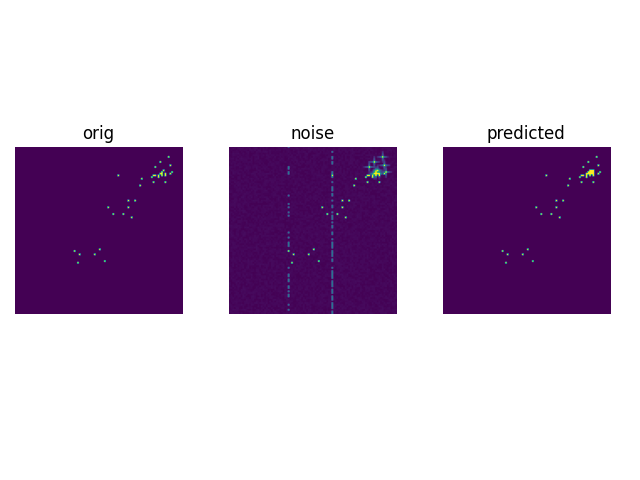
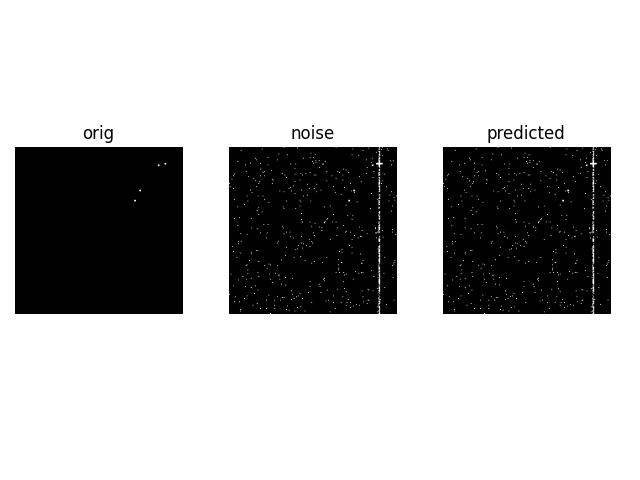
upsacaled inputs

Changed region(s): [[0.0, 0.2812, 0.3125, 0.6562], [0.6875, 0.2812, 0.9688, 0.6562], [0.3438, 0.2812, 0.625, 0.6562]]

diff --git a/dataloader.py b/dataloader.py
@@ -1,11 +1,12 @@
 import os,sys
+import cv2
 import torch, copy
 from torch.utils.data import Dataset, DataLoader
 import pandas as pd
 import numpy as np
 import random
 import matplotlib.pyplot as plt
-from tessellate import triangle_tessellate , expand
+from data_preprocess import triangle_tessellate , expand
 
 
 # imgs = []
@@ -38,13 +39,17 @@ class HSQC_Dataset(Dataset):
 
     def __getitem__(self, idx):
         raw_sample = self.all_data[idx]
-        if self.config:
+        upscale_factor = self.config['dataset'].get('signal_upscale')
+        if upscale_factor!=None:
+            raw_sample = cv2.resize(np.array(raw_sample,dtype='uint8'), (raw_sample.shape[1]*2,raw_sample.shape[0]*2), interpolation = cv2.INTER_AREA) 
+            raw_sample = raw_sample.astype('int64')
+        if self.config['dataset'].get('noise_factor') != None:
             if self.config["dataset"]["noise_factor"] == "random":
                 noise_factor = random.uniform(0.2,0.6)
             else:
                 noise_factor = self.config["dataset"]["noise_factor"]
         else :
-            noise_factor = 0.3
+            noise_factor = 1
 
 
         # add noise based on provided noise type
@@ -56,8 +61,10 @@ class HSQC_Dataset(Dataset):
             noisy_sample = raw_sample + noise_factor * np.random.uniform(low=0.0, high=1.5, size=raw_sample.shape)
         elif self.config["dataset"]["noise_type"] == "t1": 
             noisy_sample = add_t1_noise(raw_sample, self.config)
-            noisy_sample += self.config["dataset"]["white_noise_factor"] * np.random.uniform(low=0.0, high=1.5, size=raw_sample.shape)
-       
+            white_noise_rate=self.config['dataset']['white_noise_rate']
+            noisy_sample += self.config["dataset"]["white_noise_factor"] * np.random.binomial(1, white_noise_rate,  size=raw_sample.shape)
+
+
         else:
             raise Exception("unkown type of noise {}".format(self.config["dataset"]["noise_type"]))
        
@@ -130,50 +137,57 @@ def filtering(x):
 def add_t1_noise(img, config):
     height = img.shape[0]
     streak_p = config['dataset'].get('streak_prob')  # probability of generating streak noise
-    noise_factor = config['dataset']['noise_factor']
+    # if config['dataset'].get('noise_factor') != None:
+    #     if config["dataset"]["noise_factor"] == "random":
+    #         noise_factor = random.uniform(0.2,0.6)
+    #     else:
+    #         noise_factor = config["dataset"]["noise_factor"]
+    # else :
+    #     noise_factor = 1
     
-    noisy_img = np.apply_along_axis(add_noise_to_column, 0, img.astype(float), height, streak_p, noise_factor)
-    
-    if config['dataset'].get("cross_prob") != None:
-        cross_noise = generate_cross_noise(img, config)
-        noisy_img += cross_noise
+    noisy_img = copy.deepcopy(img)
+    cross_noise, cross_points = generate_cross_noise(img, config)
+    noisy_columns = cross_points[1]
+    for col in noisy_columns:
+        if np.random.binomial(1, streak_p):
+            noise_rate = np.random.binomial(height, np.random.uniform(low=0.1, high=0.7))/ height
+            noise =  np.random.binomial(1, noise_rate, height)
+            noisy_img[:,col] += noise
+            
+    noisy_img = noisy_img + cross_noise
+        
     return noisy_img
         
 
-def add_noise_to_column(col, height, streak_p, noise_factor):
-    for _ in range(int(np.sum(col))):
-        if np.random.binomial(1, streak_p):
-            noise_rate = np.random.binomial(height, np.random.uniform(low=0.1, high=0.7))/ height
-            noise =  np.random.binomial(1, noise_rate, height) * (random.uniform(0.2,0.6)  if noise_factor=="random" else noise_factor)
-            col = col+noise
+# def add_noise_to_column(col, cross_points, height, streak_p, noise_factor):
+#     for _ in range(int(np.sum(col))):
+#         if np.random.binomial(1, streak_p):
+#             noise_rate = np.random.binomial(height, np.random.uniform(low=0.1, high=0.7))/ height
+#             noise =  np.random.binomial(1, noise_rate, height) * (random.uniform(0.2,0.6)  if noise_factor=="random" else noise_factor)
+#             col = col+noise
         
-    return col
+#     return col
 
 def generate_cross_noise(img, config):
     noise_probability = config['dataset']['cross_prob']
-    output_noise = noise_layer = np.zeros(img.shape)
+    output_noise = np.zeros(img.shape)
     points =  np.array(np.where(img==1))
     points = points[:, 0:int(len(points[0])*noise_probability)]
     if len(points) == 0: 
         return output_noise
-    for noise_rate, index_shift  in [(0.1,-3), 
-                                     (0.2,-2), 
-                                     (0.3,-1),
-                                     (0.3,1),
-                                     (0.2,2),
-                                     (0.1,3)]:
+    for index_shift  in [-3,-2,-1,1,2,3]:
         points_copy1 = copy.deepcopy(points)
         points_copy1[1] += index_shift
         points_copy1[1] = np.clip(points_copy1[1], 0, img.shape[1]-1)
         noise_layer1 = np.zeros(img.shape)
-        noise_layer1[tuple(points_copy1)] = noise_rate
+        noise_layer1[tuple(points_copy1)] = 1
         output_noise += noise_layer1
         
         points_copy2 = copy.deepcopy(points)
         points_copy2[0] += index_shift
         points_copy2[0] = np.clip(points_copy2[0], 0, img.shape[1]-1)
         noise_layer2 = np.zeros(img.shape)
-        noise_layer2[tuple(points_copy2)] = noise_rate
+        noise_layer2[tuple(points_copy2)] = 1
         output_noise += noise_layer2
         
-    return output_noise
+    return output_noise, points

diff --git a/experiment.py b/experiment.py
@@ -215,19 +215,19 @@ class Experiment(object):
                     plt.tight_layout()
                     ax.set_title('orig')
                     ax.axis('off')
-                    plt.imshow(raw_pic[0].cpu())
+                    plt.imshow(raw_pic[0].cpu(),cmap='gray')
 
                     ax = plt.subplot(1, 3, 2)
                     plt.tight_layout()
                     ax.set_title('noise')
                     ax.axis('off')
-                    plt.imshow(noise_pic[0].cpu())
+                    plt.imshow(noise_pic[0].cpu(),cmap='gray')
 
                     ax = plt.subplot(1, 3, 3)
                     plt.tight_layout()
                     ax.set_title('predicted')
                     ax.axis('off')
-                    plt.imshow(prediction_pic[0].cpu())
+                    plt.imshow(prediction_pic[0].cpu(),cmap='gray')
 
                     plt.savefig(os.path.join(self.__experiment_dir, "epoch_{}_sample_images.png".format(str(self    .__current_epoch))))
                     displayed = True
@@ -275,19 +275,19 @@ class Experiment(object):
                     plt.tight_layout()
                     ax.set_title('orig')
                     ax.axis('off')
-                    plt.imshow(raw_pic[0])
+                    plt.imshow(raw_pic[0],cmap='gray')
 
                     ax = plt.subplot(1, 3, 2)
                     plt.tight_layout()
                     ax.set_title('noise')
                     ax.axis('off')
-                    plt.imshow(noise_pic[0])
+                    plt.imshow(noise_pic[0],cmap='gray')
 
                     ax = plt.subplot(1, 3, 3)
                     plt.tight_layout()
                     ax.set_title('predicted')
                     ax.axis('off')
-                    plt.imshow(prediction_pic[0])
+                    plt.imshow(prediction_pic[0],cmap='gray')
 
                     plt.savefig(os.path.join(self.__experiment_dir, "sample_images.png"))
                     displayed = True
@@ -333,19 +333,19 @@ class Experiment(object):
                     plt.tight_layout()
                     ax.set_title('orig')
                     ax.axis('off')
-                    plt.imshow(raw_pic[0].cpu())
+                    plt.imshow(raw_pic[0].cpu(),cmap='gray')
 
                     ax = plt.subplot(1, 3, 2)
                     plt.tight_layout()
                     ax.set_title('noise')
                     ax.axis('off')
-                    plt.imshow(noise_pic[0].cpu())
+                    plt.imshow(noise_pic[0].cpu(),cmap='gray')
 
                     ax = plt.subplot(1, 3, 3)
                     plt.tight_layout()
                     ax.set_title('predicted')
                     ax.axis('off')
-                    plt.imshow(prediction_pic[0].cpu())
+                    plt.imshow(prediction_pic[0].cpu(),cmap='gray')
 
                     plt.savefig(os.path.join(self.__experiment_dir, "sample_images.png"))
                     displayed = True

diff --git a/test_accu_algo.py b/test_accu_algo.py
@@ -1,7 +1,7 @@
 # originally used to check the computation of accuracy (IoU)
 # now it is used to demo some raw/noised/pre_filtered image
 import json
-import os
+import os,sys
 from dataloader import get_datasets
 from model_factory import get_model
 from weakref import ref
@@ -12,7 +12,9 @@ from tqdm import tqdm
 from datetime import datetime
 import shutil
 
-name = "t1_noise"
+
+
+name = "smaller_noise"
 f = open('./hyperparameters/'+ name + '.json')
 config = json.load(f)
 train_loader, val_loader, test_loader = get_datasets(config)
@@ -40,22 +42,24 @@ ax = plt.subplot(1, 3, 1)
 plt.tight_layout()
 ax.set_title('orig')
 ax.axis('off')
-plt.imshow(raw[0,0].cpu())
+plt.imshow(raw[0,0].cpu(),cmap='gray')
 
 ax = plt.subplot(1, 3, 2)
 plt.tight_layout()
 ax.set_title('noise')
 ax.axis('off')
-plt.imshow(noise[0,0].cpu())
+plt.imshow(noise[0,0].cpu(),cmap='gray')
 
 ax = plt.subplot(1, 3, 3)
 plt.tight_layout()
 ax.set_title('predicted')
 ax.axis('off')
-plt.imshow(prediction[0,0].cpu())
+plt.imshow(prediction[0,0].cpu(),cmap='gray')
 
 plt.savefig("accu_test_sample.png")
 displayed = True
 plt.clf()
 
+
+# print(noise[0,0,28])
 

diff --git a/data_preprocess.py b/data_preprocess.py
@@ -41,7 +41,7 @@ def triangle_tessellate(img1, scale_factor=4):
         
     return output_img
        
-def expand(img, expand_ratio =4):
+def expand(img, expand_ratio=4, signal_upscale=False):
     width = int(img.shape[1] * expand_ratio )
     height = int(img.shape[0] * expand_ratio )
     dim = (width, height)

diff --git a/test_tessellated_dataloader.py b/test_tessellated_dataloader.py
@@ -5,7 +5,7 @@ from model_factory import get_model
 from weakref import ref
 import matplotlib.pyplot as plt
 import numpy as np
-from tessellate import triangle_tessellate
+from data_preprocess import triangle_tessellate
 from tqdm import tqdm
 from scipy.spatial import Delaunay
 import cv2

diff --git a/test_triangulate.py b/test_triangulate.py
@@ -5,7 +5,7 @@ from model_factory import get_model
 from weakref import ref
 import matplotlib.pyplot as plt
 import numpy as np
-from tessellate import triangle_tessellate
+from data_preprocess import triangle_tessellate
 from tqdm import tqdm
 from scipy.spatial import Delaunay
 import cv2

diff --git a/test_upscale.py b/test_upscale.py
@@ -1,0 +1,12 @@
+from scipy.spatial import Delaunay
+import cv2
+import numpy as np
+
+
+a = np.zeros((3,4))
+a[1,2] = 1
+
+print(a)
+
+img1 = cv2.resize(np.array(a,dtype='uint64'), (a.shape[1]*2,a.shape[0]*2), interpolation = cv2.INTER_AREA) 
+print(img1)
